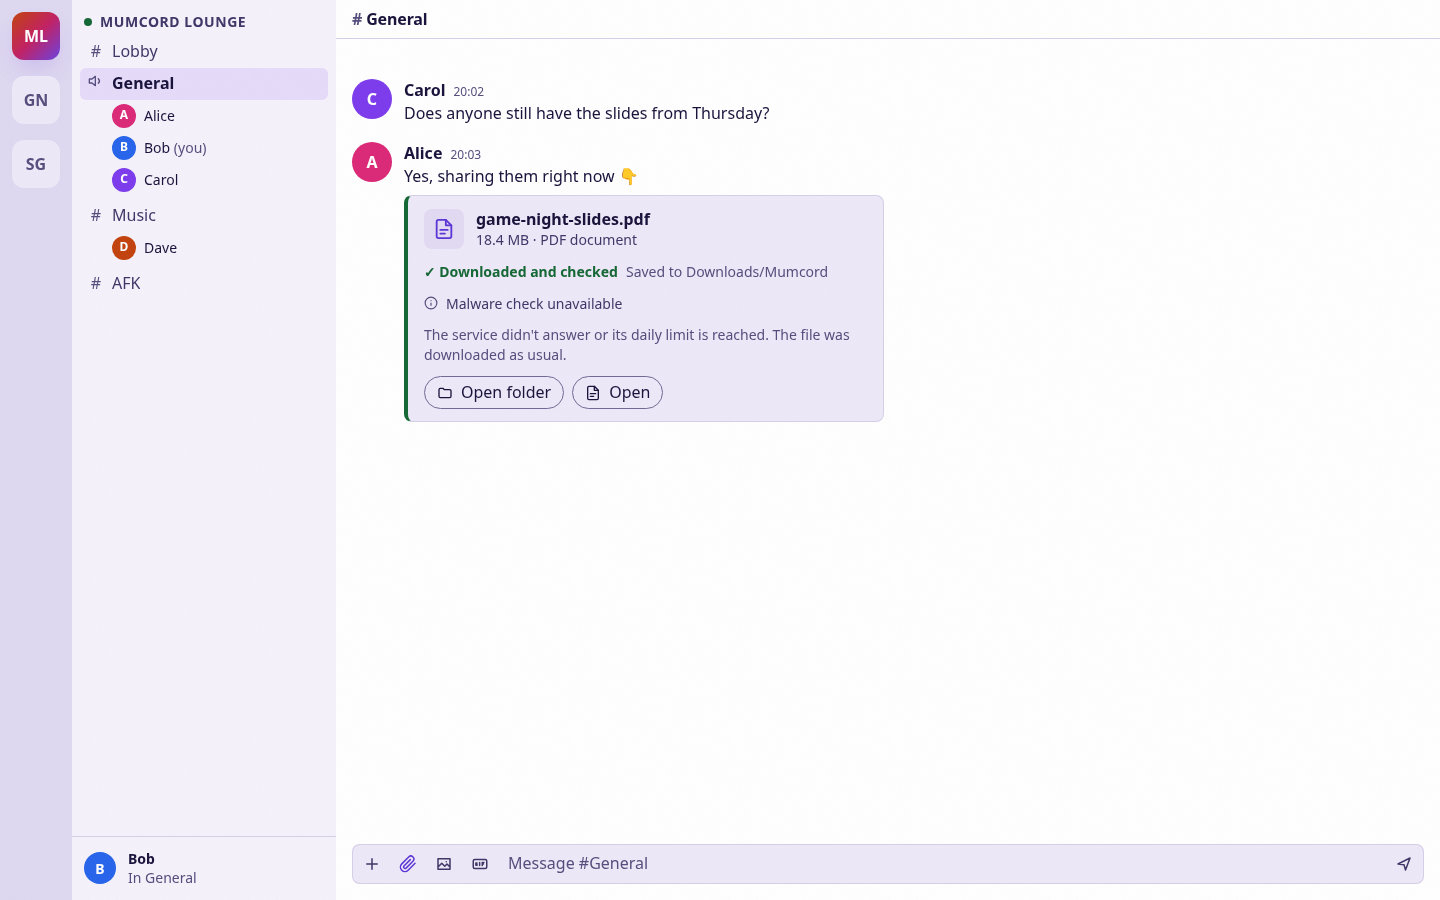
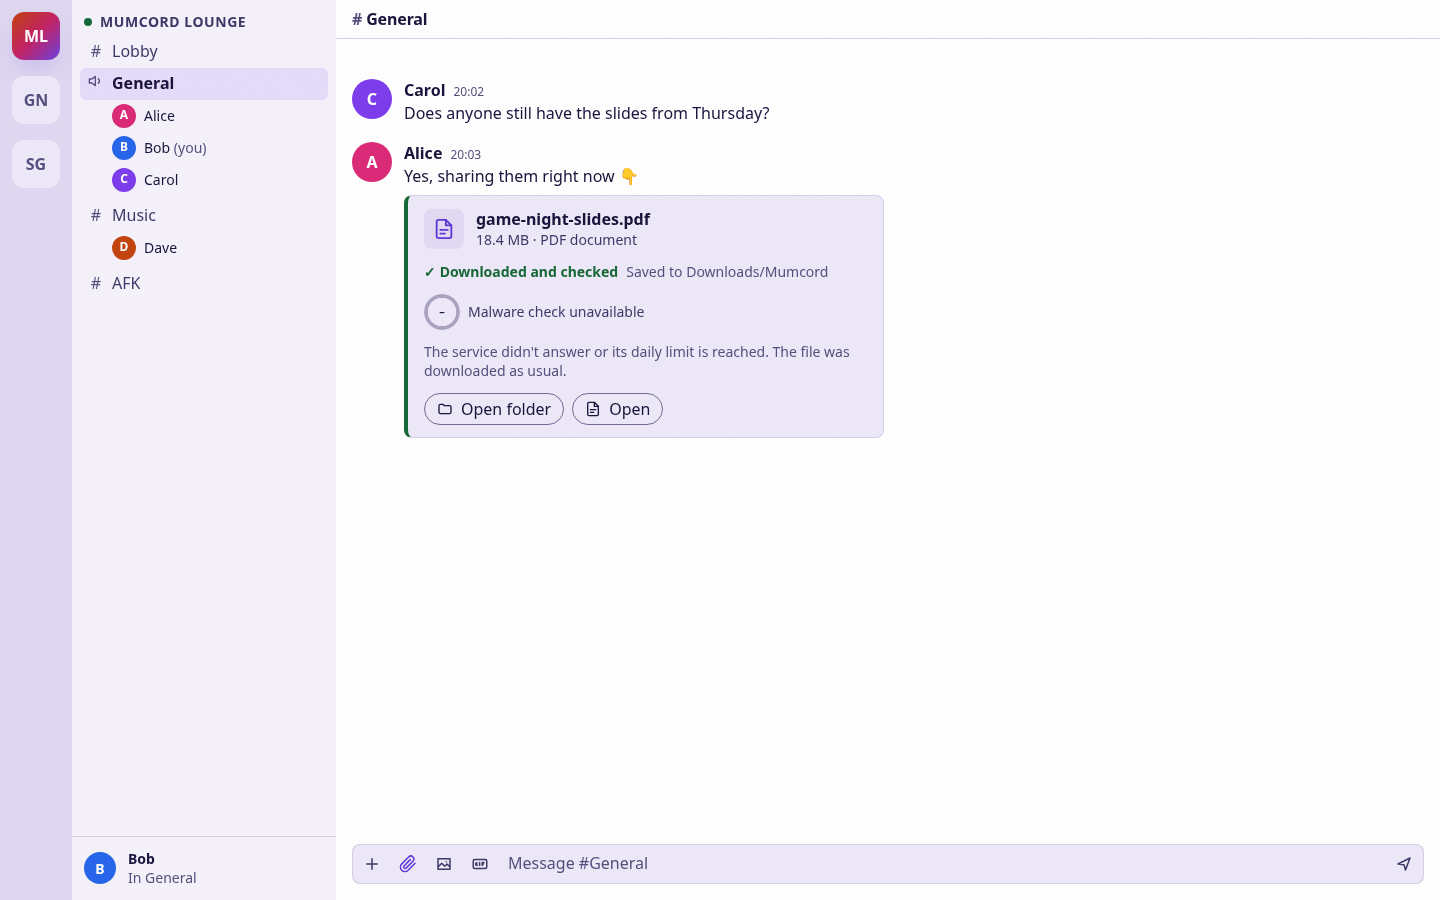
docs: use one malware verdict behaviour for all file types in Epic 4.1 mockups

Changed region(s): [[0.2812, 0.28, 0.5938, 0.4978], [0.4688, 0.28, 0.5625, 0.3111]]

diff --git a/docs/mockups/epic-4.1/11-check-unavailable.html b/docs/mockups/epic-4.1/11-check-unavailable.html
@@ -45,7 +45,7 @@
   </div>
   
   <p class="file-card__status"><span class="file-card__ok">✓ Downloaded and checked</span><span class="mock-muted">Saved to Downloads/Mumcord</span></p>
-  <p class="file-card__status file-card__scan file-card__scan--neutral"><svg viewBox="0 0 24 24" width="14" height="14" aria-hidden="true" fill="none" stroke="currentColor" stroke-width="2" stroke-linecap="round" stroke-linejoin="round"><circle cx="12" cy="12" r="10"/><path d="M12 16v-4M12 8h.01"/></svg><span>Malware check unavailable</span></p>
+  <p class="file-card__status file-card__scan file-card__scan--neutral"><span class="score-ring score-ring--sm" data-level="unknown" role="img" aria-label="Malware score not available, malware check unavailable"><span class="score-ring__value" aria-hidden="true">–</span></span><span>Malware check unavailable</span></p>
   <p class="mock-muted">The service didn't answer or its daily limit is reached. The file was downloaded as usual.</p>
   <div class="file-card__actions"><button type="button" class="media-pill file-card__button"><svg viewBox="0 0 24 24" width="16" height="16" aria-hidden="true" fill="none" stroke="currentColor" stroke-width="2" stroke-linecap="round" stroke-linejoin="round"><path d="M3 7a2 2 0 0 1 2-2h4l2 2h8a2 2 0 0 1 2 2v8a2 2 0 0 1-2 2H5a2 2 0 0 1-2-2z"/></svg><span>Open folder</span></button><button type="button" class="media-pill file-card__button"><svg viewBox="0 0 24 24" width="16" height="16" aria-hidden="true" fill="none" stroke="currentColor" stroke-width="2" stroke-linecap="round" stroke-linejoin="round"><path d="M14 2H6a2 2 0 0 0-2 2v16a2 2 0 0 0 2 2h12a2 2 0 0 0 2-2V8z"/><path d="M14 2v6h6M8 13h8M8 17h5"/></svg><span>Open</span></button></div>
 </div></div></div></div></li></ul></div></div>

diff --git a/docs/mockups/epic-4.1/mock.css b/docs/mockups/epic-4.1/mock.css
@@ -139,5 +139,3 @@ body { overflow: hidden; }
 .malware-alert__body { flex: 1; min-width: 0; }
 .malware-alert__source { margin-bottom: var(--space-1) !important; color: var(--color-text-muted); }
 /* Heuristic-only finding on a media file: informational, so no alert role, no blocking, no confirmation. */
-.malware-note { display: flex; gap: var(--space-3); align-items: flex-start; padding: var(--space-3); border: 1px solid color-mix(in srgb, var(--color-warning) 45%, transparent); border-radius: var(--radius-sm); font-size: var(--font-size-sm); }
-.malware-note__title { margin-bottom: var(--space-1) !important; font-weight: var(--font-weight-bold); }
